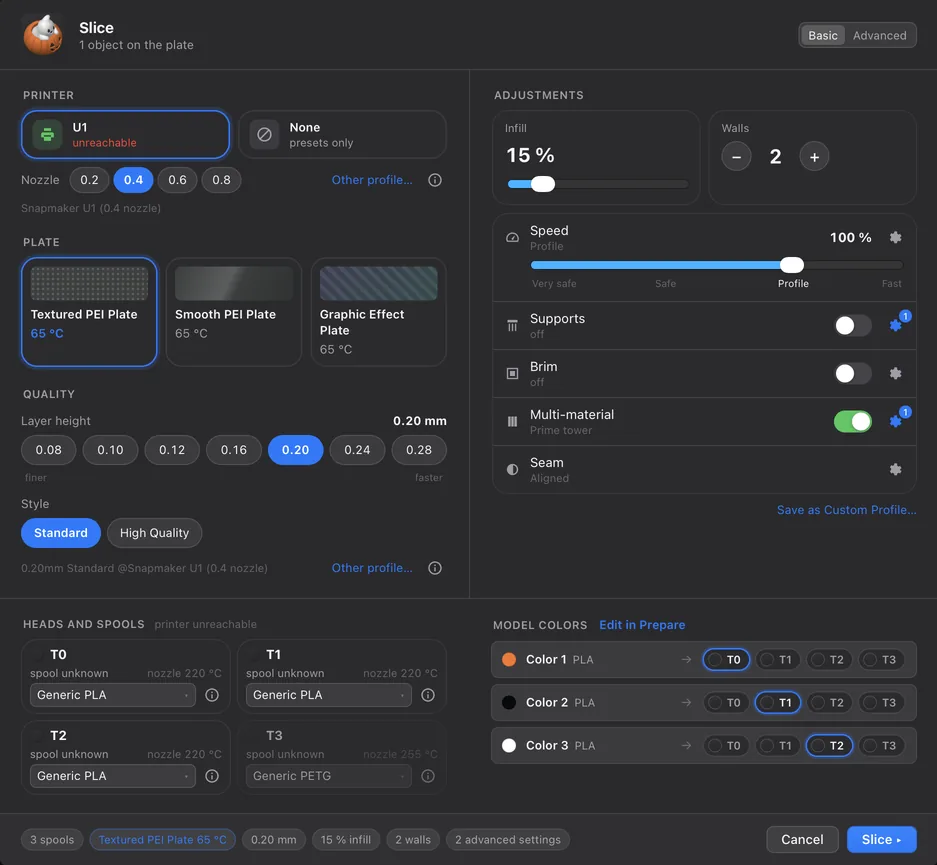
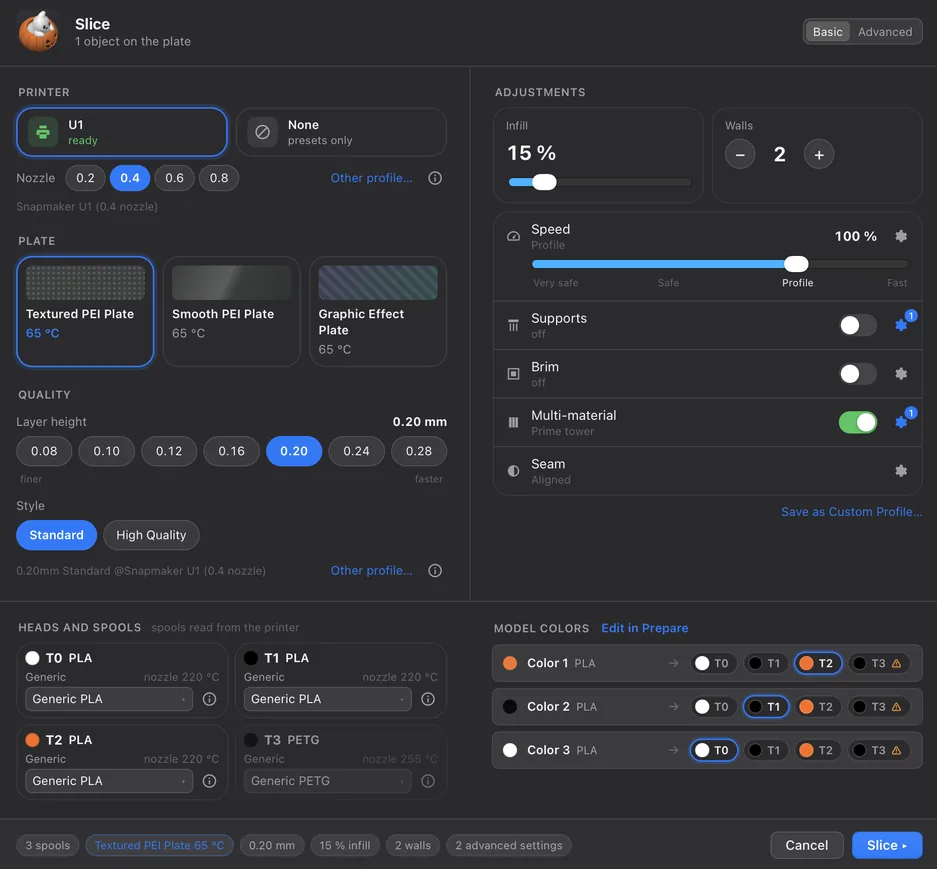
docs: Retake the Basic slice sheet with the printer ready

diff --git a/site/index.html b/site/index.html
@@ -149,7 +149,7 @@
           </figure>
           <figure class="g-slide" role="group" aria-roledescription="slide" data-i18n-roledesc="gal.slide_role" aria-label="12 / 12" data-index="11" aria-hidden="true">
             <button type="button" class="g-open" data-open="11" aria-label="Open fullscreen: Slicing: plate, quality, heads and spools read from the printer" data-cap="shots.slicing" tabindex="-1">
-              <img src="assets/slicing.webp" alt="The slice sheet" data-i18n-alt="shots.slicing_alt" width="937" height="865" loading="lazy">
+              <img src="assets/slicing.webp" alt="The slice sheet" data-i18n-alt="shots.slicing_alt" width="937" height="869" loading="lazy">
             </button>
             <figcaption><span class="g-cap" data-i18n="shots.slicing">Slicing: plate, quality, heads and spools read from the printer</span></figcaption>
           </figure>
